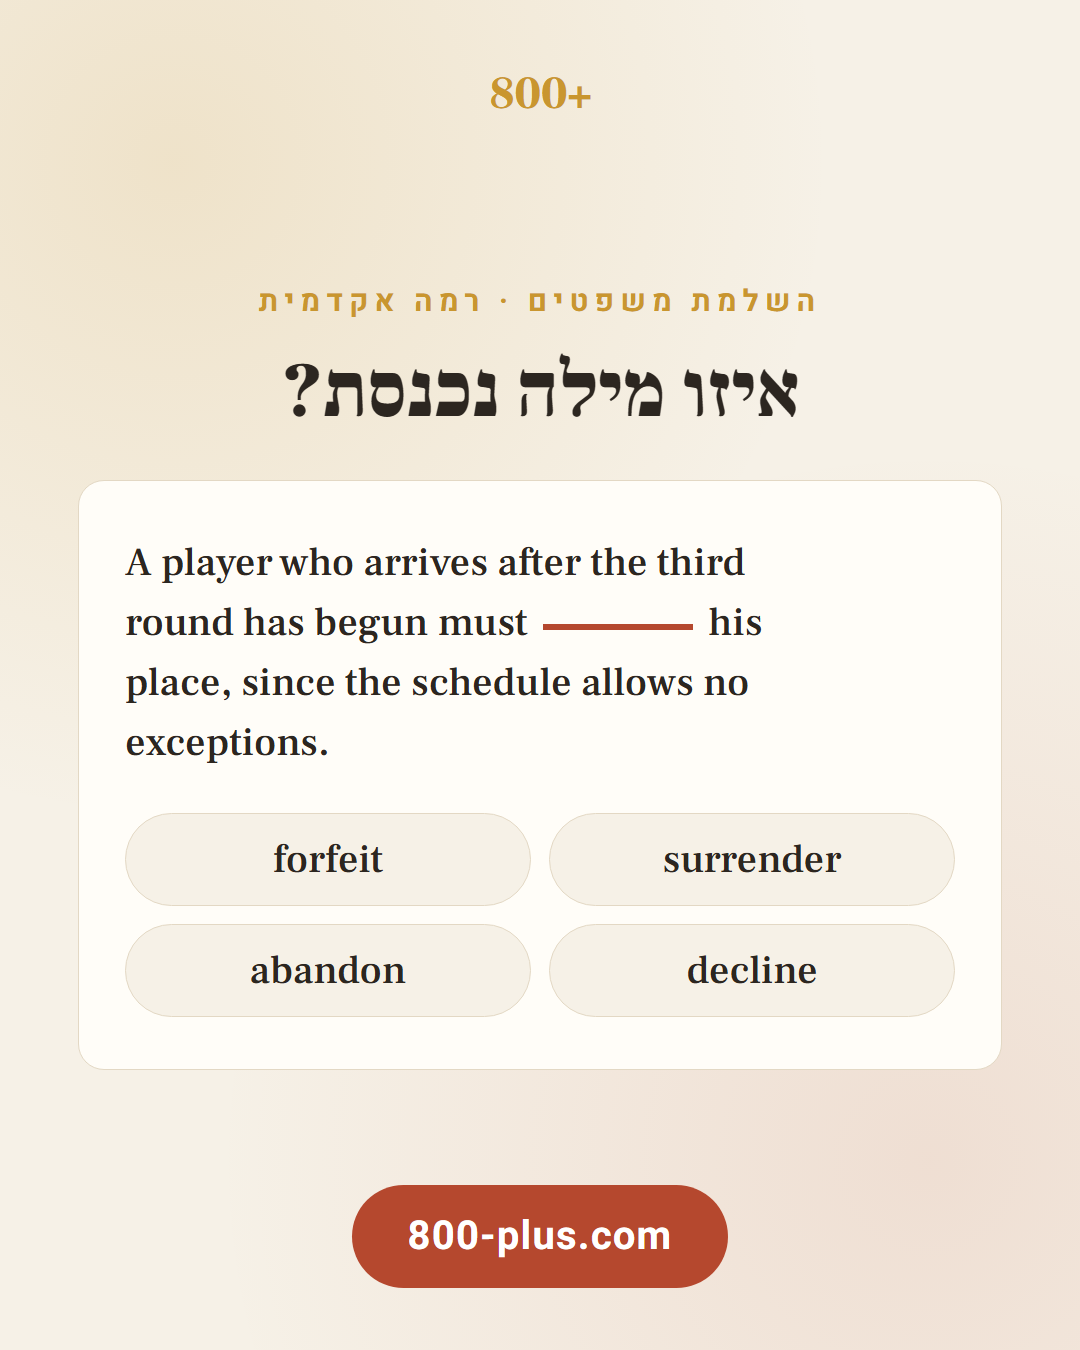
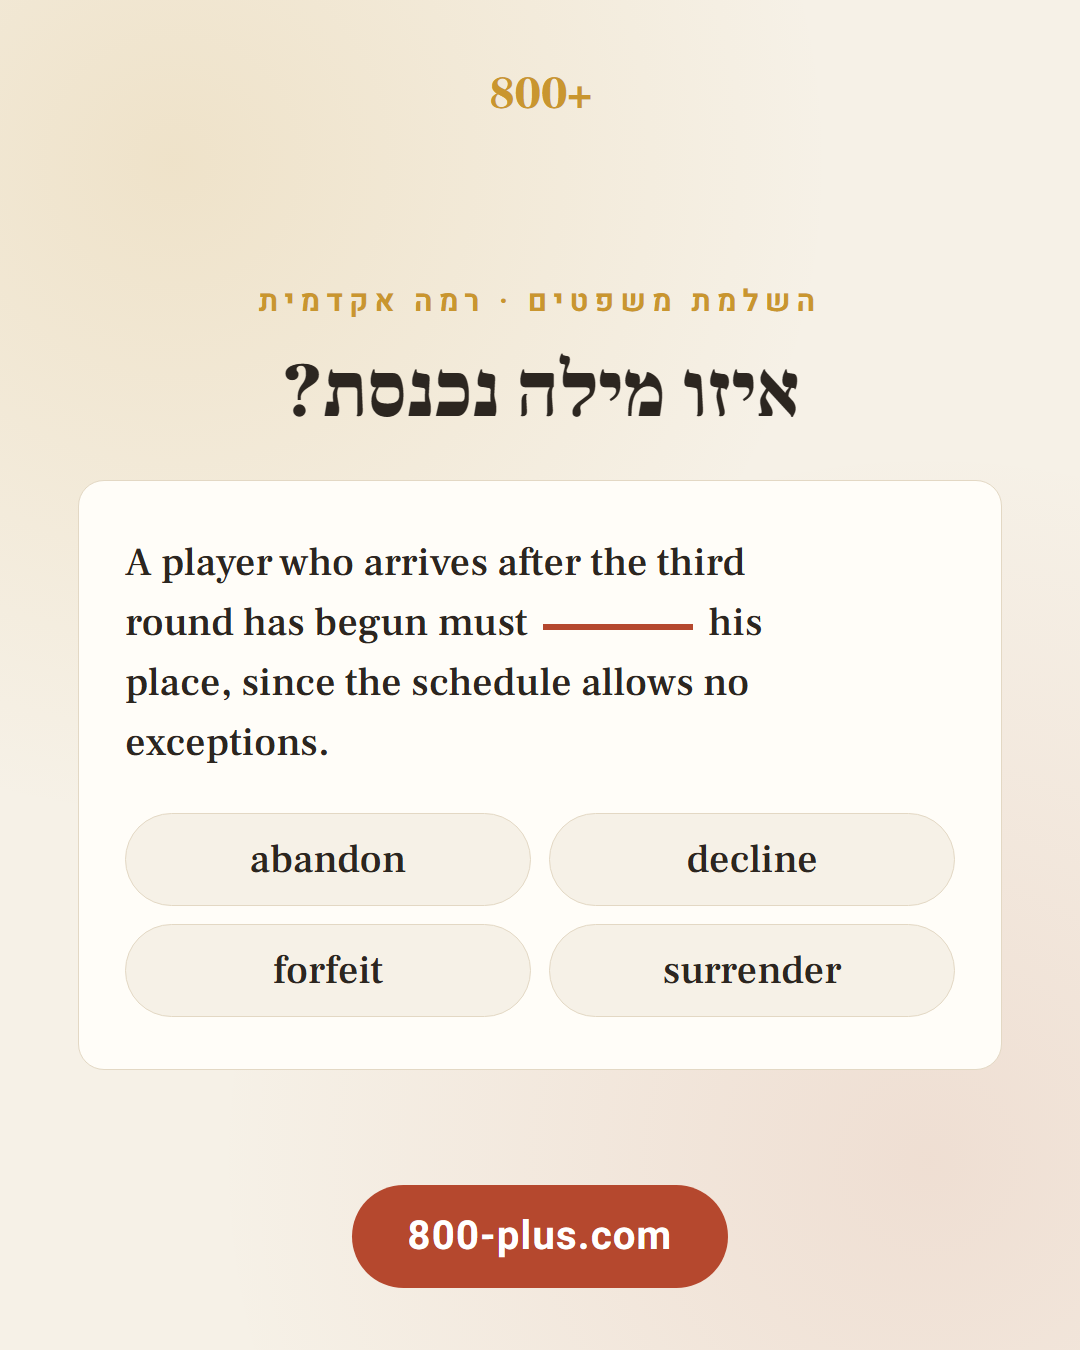
פרסום 19.8: ק2 לאינסטגרם, forfeit לטיקטוק ולפייסבוק
ק2 · קרוסלת הספירה רונדרה מחדש ביום ההעלאה. הרינדור מ-17.8 הכריז 17
כשהנכון היום 15, ונתפס רק בגלל date לפני הפרסום. פורסמה לאינסטגרם
ביחס 4:5 עם שבע שקופיות.

forfeit · הנכס רונדר מחדש כי ב-PNG הישן התשובה הנכונה ישבה במשבצת
הראשונה. הקורפוס שומר אותה ב-it.a === 0, בונה-פוסט-משפטים.js כבר
מסובב אותה למשבצת 3, וה-PNG פשוט קדם לתיקון. מי שסורק פוסט בוחר את
הראשון וצודק בלי לקרוא, והפריט מפסיק להיות מבחן.

כל נכס השלמת משפטים שהופק לפני 17.8 חשוד באותו דבר. deliberate טרם
נבדק ונרשם כמשימה.

"שכולן אומרות" הוחלף ב"שפירושן" בכל שלושת הכיתובים: מילה אינה אומרת
דבר, ו-HEB §1ב אוסר פועל אנושי על שם עצם דומם. השער לא תפס את זה כי
"אומרות" אינו במילון ההאנשה שלו, וזה פער אמיתי בשער.

פייסבוק · פורסם ב"הפסיכומטרי של המדינה" (31K, פוסט ראשון בקבוצה).
חמש הקבוצות שקיבלו פוסט ב-16.8 חסומות עד 21.8 לפי כלל חמשת הימים.

טיקטוק · הפוסט חי ופרטיותו "כולם", אבל התיאור לא נשמר. הכותרת עלתה,
הכתובת וההאשטגים לא. נרשם כמשימה.

diff --git a/שיווק/תמונות/פוסט-משפטים-forfeit.html b/שיווק/תמונות/פוסט-משפטים-forfeit.html
@@ -49,10 +49,10 @@ h1{font-family:'Frank Ruhl Libre',serif;font-weight:900;font-size:78px;color:var
       place, since the schedule allows no exceptions.
     </div>
     <div class="opts">
-      <div class="opt">forfeit</div>
-      <div class="opt">surrender</div>
       <div class="opt">abandon</div>
       <div class="opt">decline</div>
+      <div class="opt">forfeit</div>
+      <div class="opt">surrender</div>
     </div>
   </div>
 

diff --git a/שיווק/מוכן-לפרסום/טיקטוק/04-forfeit/תמלול.md b/שיווק/מוכן-לפרסום/טיקטוק/04-forfeit/תמלול.md
@@ -1,0 +1,70 @@
+# טיקטוק · פוסט תמונה · השלמת משפטים · forfeit
+
+**קובץ:** `פוסט-משפטים-forfeit.png` · 1080×1350
+**סוג:** פוסט תמונה בודדת (לא סרטון)
+**הופק:** 11.8.2026 · הכיתוב לטיקטוק נכתב 19.8.2026
+
+---
+
+## הכיתוב · להעתקה מלאה
+
+**כותרת** (עד 90 תווים):
+
+```
+ניגשים לפסיכומטרי או לאמיר"ם? ארבע מילים באנגלית שפירושן לוותר
+```
+
+**תיאור:**
+
+```
+רק אחת נכונה במשפט הזה. מה בחרתם? כתבו בתגובות 👇
+זה תרגיל מרמה אקדמית בהשלמת משפטים באפליקציה.
+
+www.800-plus.com
+
+#פסיכומטרי #אמירם #אוצרמילים #אנגלית
+```
+
+⭐ **מילת המפתח יושבת בכותרת ולא רק בהאשטג.** בטיקטוק הכותרת היא מה שנקרא,
+ובלעדיה `#פסיכומטרי` הוא סיגנל עזר שאינו מגיע לאף אחד.
+
+⚠ **`שכולן אומרות` הוחלף ב-`שפירושן`.** מילה אינה אומרת דבר, ו-`/HEB §1ב`
+אוסר פועל אנושי על שם עצם דומם. השער לא תפס את זה — `אומרות` אינו במילון
+ההאנשה שלו, וזה פער אמיתי בשער.
+
+---
+
+## לפני שמפרסמים
+
+- [ ] הכיתוב שייך לתמונה שעל המסך. האפשרויות הן `forfeit` · `surrender` · `abandon` · `decline`
+- [ ] הכתובת עם `www.`
+- [ ] **אחרי הפרסום — לבדוק את שדה "מי יכול לראות"**
+
+## למה זה בנוי ככה
+
+**קצר בהרבה מאינסטגרם ומפייסבוק.** בטיקטוק הכיתוב נחתך אחרי שורה וחצי.
+
+**הכיתוב מבקש תגובה ולא שמירה**, כי זו חידה עם תשובה אחת. השאלה "מה בחרתם"
+נענית במילה אחת, וזה מה שמייצר תגובות בפועל.
+
+**התשובה `forfeit` אינה מופיעה בתמונה.** מי שרוצה לדעת אם צדק נכנס לאתר.
+
+## מה קרה בפרסום · 19.8.2026
+
+✅ **פורסם 19.8 · 19:59 · פרטיות `כולם`.** המלכודת חזרה בדיוק כמתועד: הפוסט
+עלה כ`רק אני` עם `התוכן נמצא בבדיקה`, ואחרי כמה דקות חזר מעצמו ל`כולם`.
+**הבדיקה שלפני הפרסום לא הייתה מספיקה, וגם לא היה צריך לתקן ידנית.**
+
+⛔ **התיאור לא נשמר.** עמודת התוכן ב-Studio מציגה `ללא תיאור` — הכותרת
+עלתה, אבל **הכתובת וארבעת ההאשטגים לא**. שדה `149/4000` הוצג מלא בעורך
+מיד לפני הלחיצה על `לפרסם`, ולכן זה לא נוסח חסר אלא שדה שלא נשלח.
+נרשם כמשימה 4 בקובץ המשימות של הסשן.
+
+⚠ **הרקע:** כל הפרסום נעשה כשחלון Chrome ממוזער (`visibilityState: hidden`,
+viewport `0x0`). זה עבד לאינסטגרם ולפייסבוק ואומת שם, ובטיקטוק כנראה זה
+מה שהפיל את השדה. **לפרסם עם חלון פתוח.**
+
+## אחרי הפרסום
+
+- [x] לוודא שהפרטיות "כולם" ולא "רק אני"
+- [ ] אחרי 48 שעות: צפיות · שיתופים · שמירות · יחס לייקים

diff --git a/שיווק/מוכן-לפרסום/README.md b/שיווק/מוכן-לפרסום/README.md
@@ -3,10 +3,11 @@
 **כל תיקייה היא פוסט אחד.** בתוכה: הקבצים להעלאה, וקובץ `תמלול.md` עם הכיתוב
 המלא להעתקה, מה לבדוק לפני, ולמה הפוסט בנוי כך.
 
-**עודכן 16.8.2026 · 18 יום למועד ספטמבר.**
+**עודכן 19.8.2026 · 15 יום למועד ספטמבר.**
 
 ⚠ **הספירה מתיישנת כל לילה.** `date` לפני כל נכס תלוי-תאריך, ורינדור מחדש
-ביום ההעלאה. ב-16.8 יצא פוסט עם `19` שחושב ליום הקודם, ונתפס לפני הפרסום.
+ביום ההעלאה. ב-16.8 יצא פוסט עם `19` שחושב ליום הקודם, ונתפס לפני הפרסום,
+וב-19.8 שקופית שרונדרה ב-17.8 הכריזה `17` כשהנכון היה `15`.
 
 ---
 
@@ -16,10 +17,18 @@
 |---|---|:---:|:---:|:---:|
 | 1 | **עברית · חמש מילים** | ✔ 16.8 | — | ✔ 16.8 |
 | 2 | **צבא** · השלמת משפטים | ✔ פורסם 14.8 | ✔ פורסם 14.8 | ✔ פורסם 14.8 |
-| 3 | **forfeit** · השלמת משפטים | ✅ | ✅ | — |
+| 3 | **forfeit** · השלמת משפטים | ✅ | ✔ **19.8** · הפסיכומטרי של המדינה | ✔ **19.8** |
 | 4 | **deliberate** · השלמת משפטים | ✅ | — | — |
-| 5 | **ק2** · קרוסלת הספירה | ✅ | ✔ שקופית 00 · 16.8 | — |
+| 5 | **ק2** · קרוסלת הספירה | ✔ **19.8** · 15 יום | ✔ שקופית 00 · 16.8 | — |
 | — | **ר1** · ריל פתיחה קרה | — | — | ⚠ כבר פורסם 11.8 |
+
+⭐ **`forfeit` רונדרה מחדש ב-19.8 והיא נכס אחר מזה שישב כאן.** ב-PNG המקורי
+התשובה הנכונה ישבה **במשבצת הראשונה**, כי הקורפוס שומר אותה ב-`it.a === 0`
+וה-PNG קדם לתיקון הסיבוב ב-`בונה-פוסט-משפטים.js`. **מי שסורק פוסט בוחר את
+הראשון וצודק בלי לקרוא**, והפריט מפסיק להיות מבחן.
+
+⛔ **כל נכס השלמת משפטים שהופק לפני 17.8 חשוד באותו דבר.** לפני פרסום —
+לרנדר מחדש עם הסקריפט, לא לקחת PNG מהתיקייה.
 
 **הכיתוב שונה בין הפלטפורמות של אותו פוסט.** פייסבוק ארוך ואישי בלי האשטגים ·
 אינסטגרם בינוני עם האשטגים · טיקטוק קצר מאוד. אל תעתיק בין תיקיות.
@@ -38,9 +47,9 @@
 | יום | אינסטגרם | פייסבוק | טיקטוק |
 |---|---|---|---|
 | **14.8** | ✔ צבא | ✔ צבא ×2 קבוצות | ✔ צבא |
-| **16.8** | ✔ עברית · חמש | ✔ ספירה 18 יום | ✔ עברית · חמש |
-| הבא | forfeit | forfeit | forfeit |
-| ואז | deliberate | ק2 · ספירה | deliberate |
+| **16.8** | ✔ עברית · חמש | ✔ ספירה 18 יום ×5 קבוצות | ✔ עברית · חמש |
+| **19.8** | ✔ ק2 · 15 יום | ✔ forfeit · הפסיכומטרי של המדינה | ✔ forfeit |
+| הבא | deliberate | deliberate | deliberate |
 
 **למה הצבא ראשון בפייסבוק:** שם יושבות קבוצות המשוחררים, וההתאמה הגבוהה ביותר.
 

diff --git a/שיווק/מוכן-לפרסום/פייסבוק/03-forfeit/תמלול.md b/שיווק/מוכן-לפרסום/פייסבוק/03-forfeit/תמלול.md
@@ -2,14 +2,19 @@
 
 **קובץ:** `פוסט-משפטים-forfeit.png`
 **סוג:** פוסט בקבוצות · מהפרופיל האישי
-**הופק:** 11.8.2026 · טרם פורסם
+**הופק:** 11.8.2026 · ⚠ **רונדר מחדש 19.8.2026** · טרם פורסם
+
+⭐ **מה תוקן ברינדור מחדש:** ב-PNG המקורי `forfeit` ישבה **במשבצת הראשונה**.
+מי שסורק פוסט בוחר את הראשון וצודק בלי לקרוא, והפריט מפסיק להיות מבחן.
+`בונה-פוסט-משפטים.js` מסובב עכשיו את המערך כך שהנכונה נוחתת במשבצת 3.
+הבאג היה בקורפוס (`it.a === 0`), לא בסקריפט, וה-PNG הישן קדם לתיקון.
 
 ---
 
 ## הכיתוב · להעתקה מלאה
 
 ```
-ארבע מילים באנגלית, כולן אומרות "לוותר". רק אחת נכונה במשפט הזה 👇
+ארבע מילים באנגלית שפירושן "לוותר". רק אחת נכונה במשפט הזה 👇
 זה מתוך תרגול השלמת המשפטים שהוספתי לאפליקציה. לכל אפשרות יש שם הסבר למה היא נכונה או לא, כי בפרק הזה ההבדל בין תשובה נכונה לתשובה שנראית נכונה הוא כל המבחן.
 
 מה בחרתם?

diff --git a/שיווק/תוכניות/מילים-בשימוש.md b/שיווק/תוכניות/מילים-בשימוש.md
@@ -57,6 +57,7 @@
 | principal · principle | קרוסלה ק1 · זוגות מבלבלים |
 | adapt · adopt | קרוסלה ק1 · זוגות מבלבלים |
 | moral · morale | קרוסלה ק1 · זוגות מבלבלים |
+| forfeit · surrender · abandon · decline | פוסט השלמת משפטים · **פורסם 19.8** טיקטוק + פייסבוק |
 
 ---
 
@@ -96,3 +97,14 @@ node -e "global.window=global;require('./data.js');require('./data-en.js');const
 אֶשְׁכָּר · אַפְסָר · אִישׁ מָדוֹן · בְּלִי מֵשִׂים · בְּחִישָׁה
 
 כולן מיחידה 10. **נשרפו — לא לחזור עליהן בנכס הבא.**
+
+---
+
+## 19.8.2026 · שני פוסטים · טיקטוק + פייסבוק + אינסטגרם
+
+**forfeit** (טיקטוק · פייסבוק) — הפריט `אקדמי #23`. ארבע אפשרויות קרובות:
+`forfeit` · `surrender` · `abandon` · `decline`. **הנכס רונדר מחדש** כי ב-PNG
+הישן הנכונה ישבה במשבצת הראשונה.
+
+**ק2 · קרוסלת הספירה** (אינסטגרם) — אינה שורפת מילים, היא תוכנית לימודים.
+רונדרה מחדש באותו יום ומכריזה **15 ימים**.

diff --git a/שיווק/מוכן-לפרסום/אינסטגרם/05-ק2-ספירה/תמלול.md b/שיווק/מוכן-לפרסום/אינסטגרם/05-ק2-ספירה/תמלול.md
@@ -2,7 +2,7 @@
 
 **קבצים:** `00.png` עד `06.png` · 1080×1350 (4:5) · **שבע שקופיות בסדר הזה**
 **סוג:** קרוסלה
-**רונדר:** 17.8.2026 · מכריז **17 ימים**
+**רונדר:** 19.8.2026 · מכריז **15 ימים**
 
 ---
 
@@ -25,7 +25,7 @@ cd "C:/Users/03hag/Claude projects/800+/שיווק"
 ## הכיתוב · להעתקה מלאה
 
 ```
-17 יום למועד ספטמבר בפסיכומטרי. מה עושים עם אוצר מילים בזמן שנשאר? 📆
+15 יום למועד ספטמבר בפסיכומטרי. מה עושים עם אוצר מילים בזמן שנשאר? 📆
 חמישה דברים מעשיים, לא עצות כלליות. הכי חשוב מביניהם: לא לפתוח מאגר חדש עכשיו.
 
 מי ניגש איתכם? שלחו לו את זה.

diff --git a/שיווק/מוכן-לפרסום/אינסטגרם/03-forfeit/תמלול.md b/שיווק/מוכן-לפרסום/אינסטגרם/03-forfeit/תמלול.md
@@ -2,7 +2,12 @@
 
 **קובץ:** `פוסט-משפטים-forfeit.png` · 1080×1350 (4:5)
 **סוג:** פוסט תמונה בודדת
-**הופק:** 11.8.2026 · טרם פורסם
+**הופק:** 11.8.2026 · ⚠ **רונדר מחדש 19.8.2026** · טרם פורסם
+
+⭐ **מה תוקן ברינדור מחדש:** ב-PNG המקורי `forfeit` ישבה **במשבצת הראשונה**.
+מי שסורק פוסט בוחר את הראשון וצודק בלי לקרוא, והפריט מפסיק להיות מבחן.
+`בונה-פוסט-משפטים.js` מסובב עכשיו את המערך כך שהנכונה נוחתת במשבצת 3.
+הבאג היה בקורפוס (`it.a === 0`), לא בסקריפט, וה-PNG הישן קדם לתיקון.
 
 ---
 
